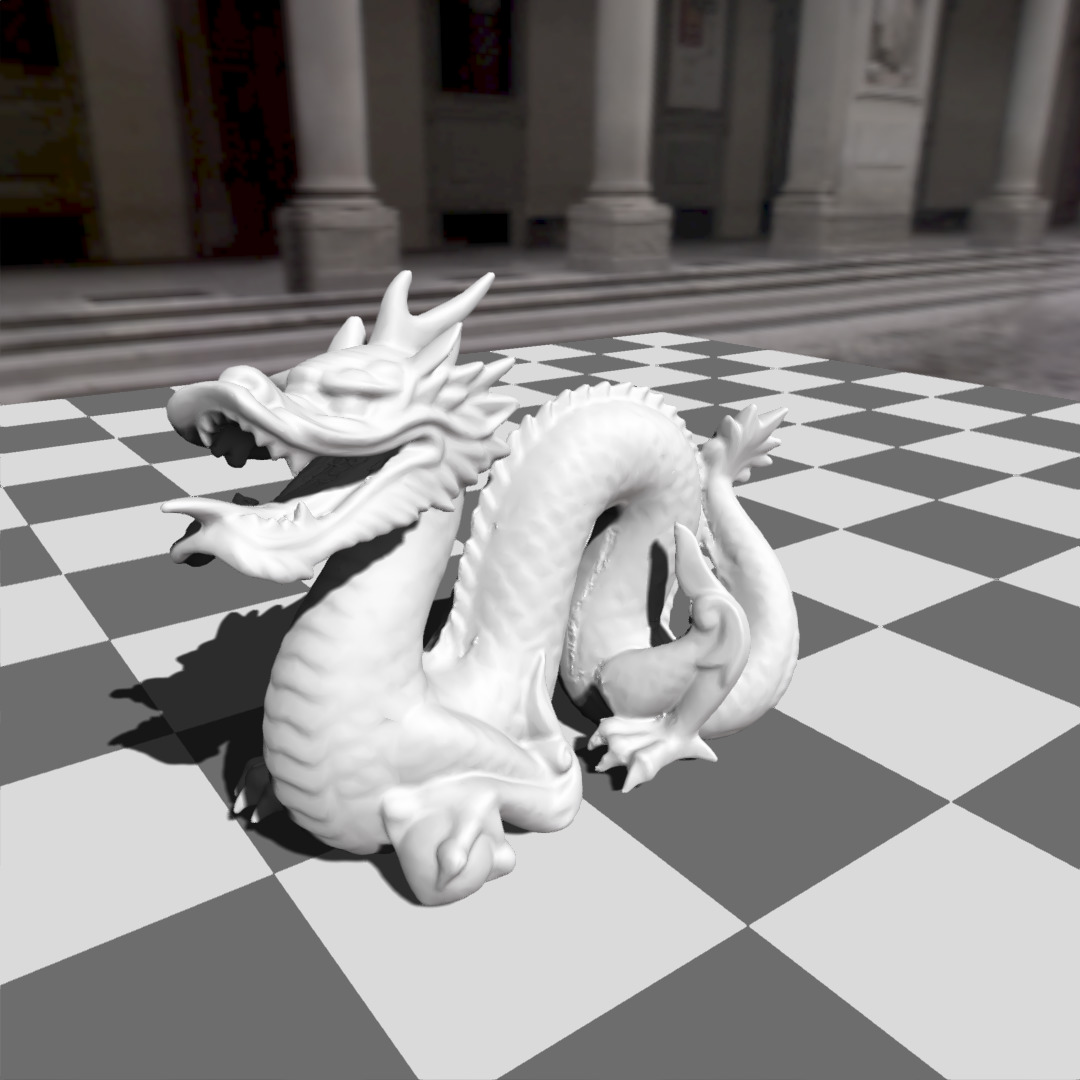
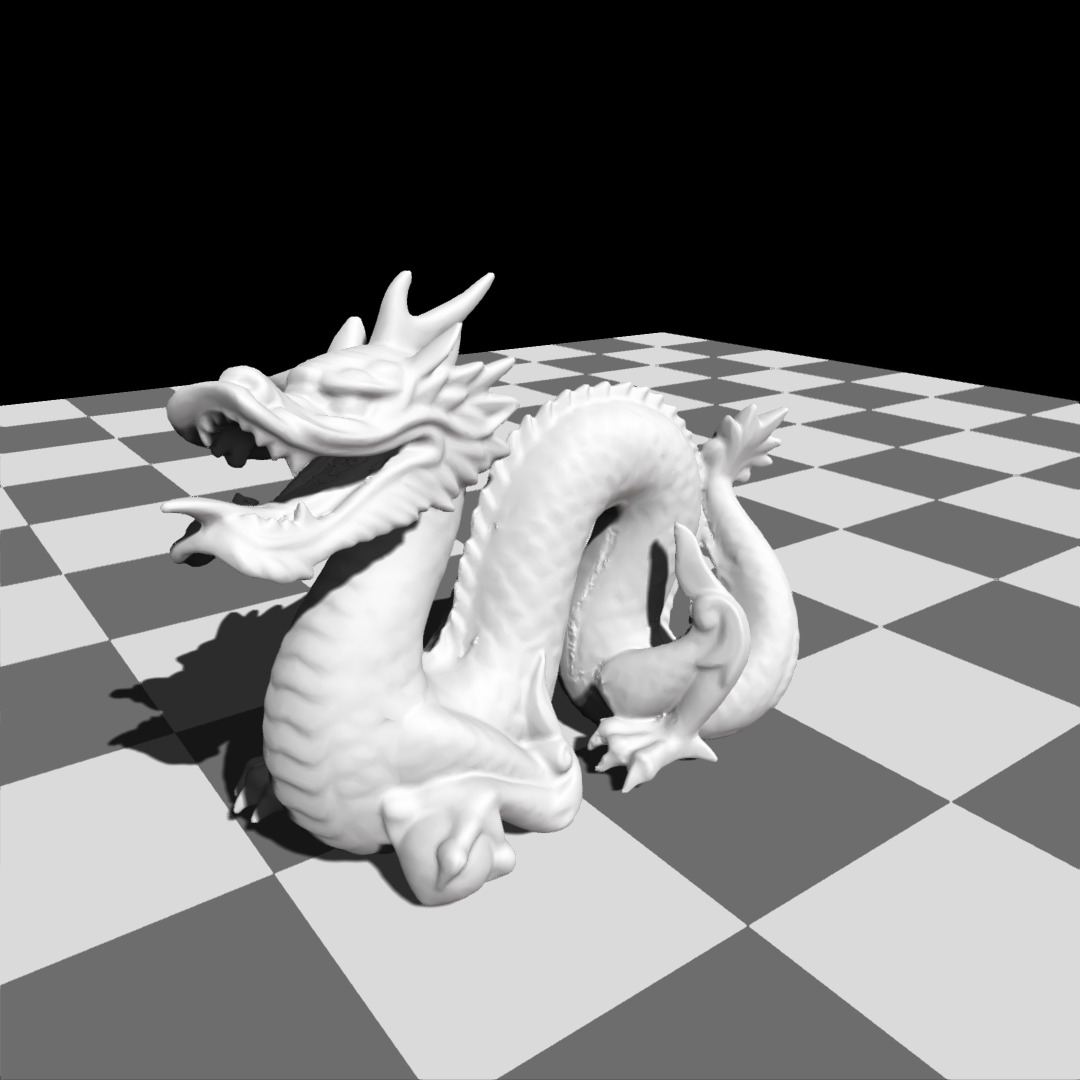
updating SH

diff --git a/README.md b/README.md
@@ -167,7 +167,7 @@ glslViewer assets/dragon.obj lighting_shadow.frag -e camera_position,1.43923,-0.
 #### Spherical Harmonics
 
 ```bash
-glslViewer assets/dragon.obj lighting_sphericalHarmonics.frag -e camera_position,1.43923,-0.891203,-1.98093 -C assets/uffizi_cross.hdr -l
+glslViewer assets/dragon.obj lighting_sphericalHarmonics.frag -e camera_position,1.43923,-0.891203,-1.98093 -c assets/uffizi_cross.hdr -l
 ```
 
 ![](images/lighting_sphericalHarmonics.jpg)
